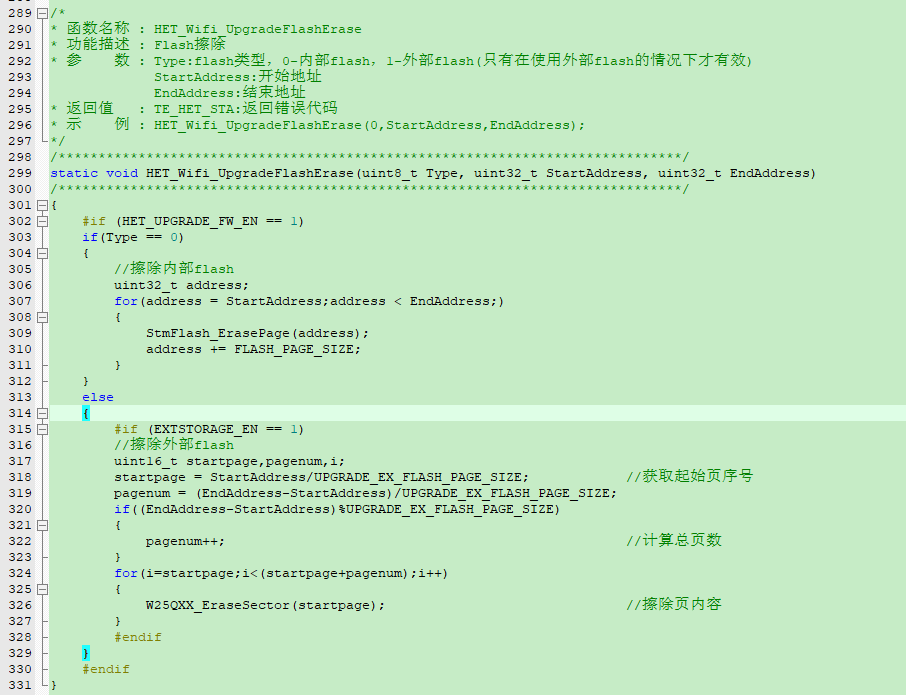
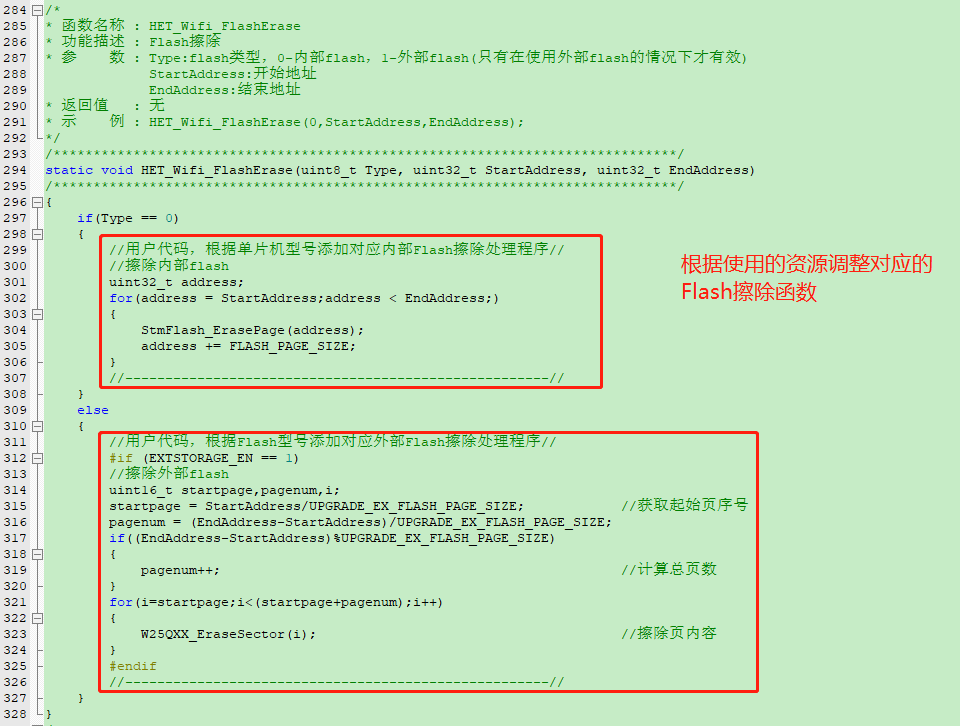
修改部分代码注释以及更新对应图片说明

Changed region(s): [[0.0, 0.0, 1.0, 1.0], [0.7108, 0.3324, 0.989, 0.423]]

diff --git a/source/zh-cn/device/mcu/mcu_framework.md b/source/zh-cn/device/mcu/mcu_framework.md
@@ -137,11 +137,11 @@ xxx_xxx_数值_累计耗电量(累计耗电量)
 
 #### 4.2.3 WiFi通讯重要函数API说明
 ##### 4.2.3.1 初始化函数 
-	TE_HET_STA HET_Wifi_Open(void)  
+	void HET_Wifi_Open(void)  
 函数名称：HET_Wifi_Open         
 功能描述：WiFi通讯功能打开        
 参数：无       
-返回值：TE_HET_STA:返回错误代码              
+返回值：无         
 ##### 示例如下：
 ![](/assets/mcu/OpenProtocol.png)     
 初始化代码中有关于串口硬件驱动的初始化需要用户添加，如下图：    
@@ -164,46 +164,46 @@ xxx_xxx_数值_累计耗电量(累计耗电量)
 返回值：无     
 ##### 示例如下：   
 ![](/assets/mcu/RecvNew.png)   
-串口接收函数必须按照函数原来来定义，否则接收数据会出错。   
+串口接收函数必须按照函数原型来定义，否则接收数据会出错。   
 
 ##### 4.2.3.4 串口发送函数
 	void HET_Wifi_Usart_Send(uint8_t *_pbuf, uint16_t _data_len)
 函数名称：HET_Wifi_Usart_Send   
 功能描述：Wifi串口数据发送   
 参数：pBuf:数据指针 Len:数据长度   
-返回值：TE_HET_STA:返回错误代码     
+返回值：无     
 ##### 示例如下：   
 ![](/assets/mcu/SendNew.png)   
-串口发送函数必须按照函数原来来定义，否则发送数据会出错。   
+根据使用的单片机型号调整对应的串口发送函数，但是必须按照函数原型来定义，否则发送数据会出错。   
 
 ##### 4.2.3.5 Flash擦除函数
-	void HET_Wifi_UpgradeFlashErase(uint8_t Type, uint32_t StartAddress, uint32_t EndAddress)     
-函数名称：HET_Wifi_UpgradeFlashErase    
+	void HET_Wifi_FlashErase(uint8_t Type, uint32_t StartAddress, uint32_t EndAddress)     
+函数名称：HET_Wifi_FlashErase    
 功能描述：Flash擦除   
 参数：Type:flash类型，0-内部flash，1-外部flash(只有在使用外部flash的情况下才有效)
            StartAddress:开始地址    
            EndAddress:结束地址    
-返回值：TE_HET_STA:返回错误代码       
+返回值：无      
 ##### 示例如下：   
 ![](/assets/mcu/FlashErase.png)      
 如果需要修改Flash擦除函数，请与函数原型保持一致，否则会因为擦除数据出错，导致程序跑飞。      
 
 ##### 4.2.3.6 Flash写入函数
-	void HET_Wifi_UpgradeFlashWrite(uint8_t Type, uint32_t StartAddress, uint32_t EndAddress)     
-函数名称：HET_Wifi_UpgradeFlashWrite   
+	void HET_Wifi_FlashWrite(uint8_t Type, uint32_t StartAddress, uint32_t EndAddress)     
+函数名称：HET_Wifi_FlashWrite   
 功能描述：写入升级数据   
 参数：Type:0-内部flash，1-外部flash(只有在使用外部flash的情况下才有效)   
 		   Address:写入地址   
            pData:数据指针  
            Len:数据长度   
-返回值：TE_HET_STA:返回错误代码    
+返回值：无    
 ##### 示例如下：   
 ![](/assets/mcu/FlashWrite.png)      
 如果需要修改Flash写入函数，请与函数原型保持一致，否则会因为写入数据出错，导致程序跑飞。
 
 ##### 4.2.3.7 Flash读取函数
-	void HET_Wifi_UpgradeFlashRead(uint8_t Type, uint32_t StartAddress, uint32_t EndAddress)     
-函数名称：HET_Wifi_UpgradeFlashRead   
+	void HET_Wifi_FlashRead(uint8_t Type, uint32_t StartAddress, uint32_t EndAddress)     
+函数名称：HET_Wifi_FlashRead   
 功能描述：读取升级数据   
 参数：Type:flash类型，0-内部flash，1-外部flash(只有在使用外部flash的情况下才有效)   
 		   Address:写入地址   
@@ -215,11 +215,11 @@ xxx_xxx_数值_累计耗电量(累计耗电量)
 如果需要修改Flash读取函数，请与函数原型保持一致，否则会因为读取数据出错，导致程序跑飞。   
 
 ##### 4.2.3.8 绑定、产测操作函数
-	TE_HET_STA HET_CP_WriteCMD(TE_HET_CP_CONTROL Cmd)
+	void HET_CP_WriteCMD(TE_HET_CP_CONTROL Cmd)
 函数名称：HET_CP_WriteCMD  
 功能描述：发送CP操作指令   
 参数：Cmd：HET_CP_BINDCMD-绑定，HET_CP_TESTCMD-产测   
-返回值：TE_HET_STA：返回错误代码  
+返回值：无  
 ##### 示例如下（本示例是通过长按按键触发绑定）：
 ![](/assets/mcu/BindNew.png)
 #### 产测操作用法和绑定命令一样，都是调用同一个函数，只是输入的参数不一样，这里就不做过多说明。 
@@ -236,11 +236,11 @@ xxx_xxx_数值_累计耗电量(累计耗电量)
 ![](/assets/mcu/ErrorHandle.png)     
    
 ##### 4.2.3.10 主动获取本地时间函数
-	TE_HET_STA HET_Wifi_SyncLocalTime(void)
+	void HET_Wifi_SyncLocalTime(void)
 函数名称：HET_Wifi_SyncLocalTime   
 功能描述：本地数据上报类型标识控制   
 参数：无   
-返回值：TE_HET_STA:返回错误代码    
+返回值：无 
 ##### 示例如下：
 ![](/assets/mcu/GetTime.png)  
 
